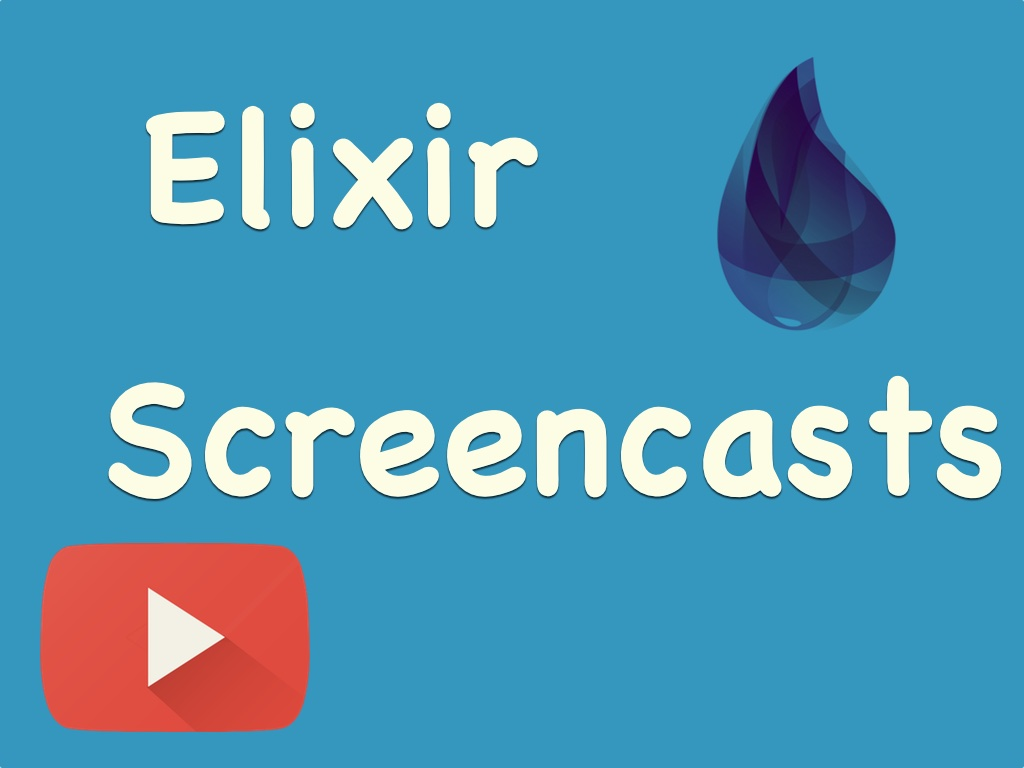
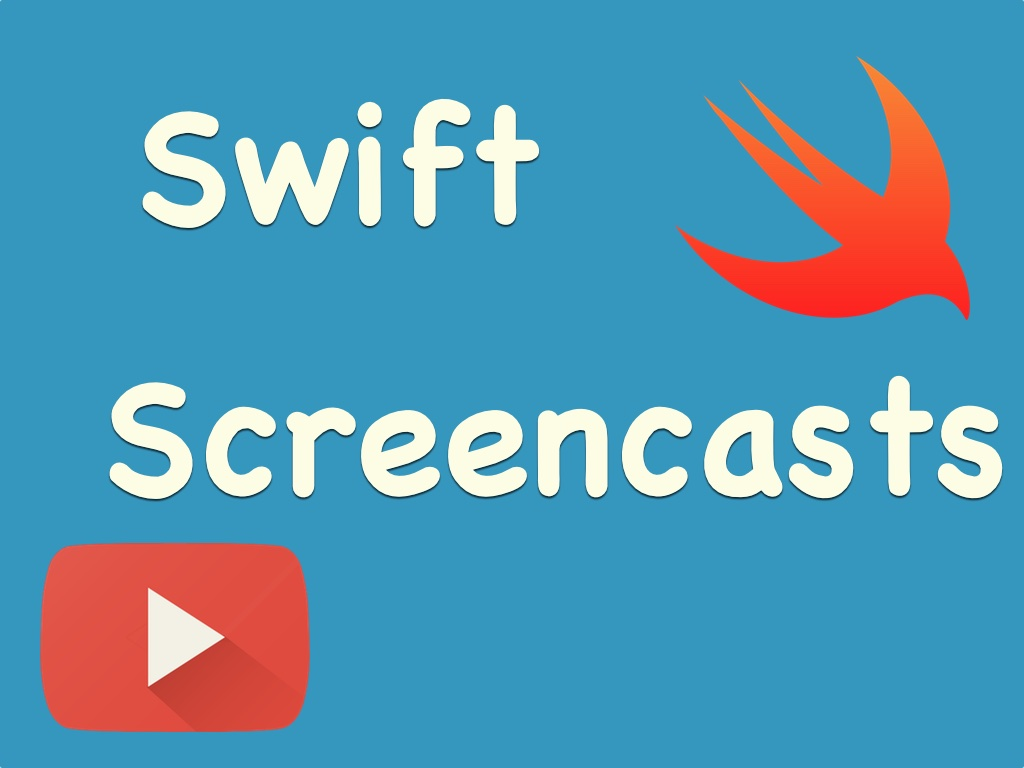
Added new assets

diff --git a/index.html b/index.html
@@ -1,14 +1,14 @@
 ---
 layout: default
-title: Inicio
+title: Aprende Swift y Elixir
 ---
 <div class="index-wrapper">
     
     <div class="jumbotron">
-        <h1>Aprende Elixir, Python, Linux, DevOps y Software Development</h1>
+        <h1>Aprende Swift y Elixir</h1>
 
         <p>Hola, mi nombre es Giovanni Cortés, y me gusta <strong>hacer videos y escribir sobre
-            Elixir, Python, Linux, DevOps y en general sobre programación</strong>. He sido desarrollador
+            Swift, Elixir, Python y en general sobre programación</strong>. He sido desarrollador
             por 5 años y me gusta <strong>ayudar a las personas a aprender sobre tecnología</strong>.
         </p>
     </div>
@@ -23,7 +23,7 @@ title: Inicio
         <div class="col-xs-4 video-box">
             <article>
                 <h3>
-                    <a href="">Linux Tips</a>
+                    <a href="">Tips</a>
                 </h3>
             </article>
         </div>
@@ -31,7 +31,7 @@ title: Inicio
         <div class="col-xs-4 video-box">
             <article>
                 <h3>
-                    <a href="">Python</a>
+                    <a href="">Swift</a>
                 </h3>
             </article>
         </div>
@@ -62,9 +62,9 @@ title: Inicio
     </div>
 
     <div class="email-cta-box">
-        <h3>Elixir y Software Development Tips</h3>
+        <h3>Swift y Elixir Development Tips</h3>
         <div class="email-cta-info">
-            Obtén cada semana un poco de información sobre Elixir y Desarrollo de Software. Prometo no enviar spam. Puedes cancelar tu suscripción en
+            Obtén cada semana un poco de información sobre Swift y Desarrollo de Software. Prometo no enviar spam. Puedes cancelar tu suscripción en
             cualquier momento.
         </div>
         {% include subscribe_general.html %}

diff --git a/acerca.html b/acerca.html
@@ -8,13 +8,12 @@ permalink: /acerca/
 
 <h2>Sobre mí</h2>
 
-<p>Mi nombre es Giovanni Cortes y ayudo a los que quieran aprender sobre Elixir, Python, Linux, DevOps y programación.</p>
+<p>Mi nombre es Giovanni Cortes y ayudo a los que quieran aprender sobre Swift, iOS, Linux, DevOps y programación.</p>
 
 <p>
   He sido desarrollador por más de 5 años escribiendo en lenguajes como
   Python, C#, Elixir, Swift y Objective-C. Actualmente me enfoco en crear
-  soluciones de DevOps con AWS principalmente. Aunque muchos prefieren usar
-  CentOS para sus servidores, generalmente uso Ubuntu Server para mis deploys.
+  soluciones de DevOps con AWS principalmente y crear aplicaciones de iOS usando Swift y Objective-C.
 </p>
 
 <p>

diff --git a/videos.html b/videos.html
@@ -4,14 +4,14 @@ title: Acerca
 permalink: /videos/
 ---
 
-<h1>Ve videos y screencasts gratis sobre Elixir y Tips de Programación en
+<h1>Ve videos y screencasts gratis sobre Swift y Tips de Programación en
 mi canal de YouTube
 </h1>
 
 <img src="/assets/img/screencasts.jpg" alt="Screencasts" class="img-responsive featured"></img>
 
 
-<p>Mi canal de YouTube tiene varios videos sobre Elixir, Python, Linux, y Tips de Programación que puedes disfrutar.</p>
+<p>Mi canal de YouTube tiene varios videos sobre Swift, Elixir, Python, y Tips de Programación que puedes disfrutar.</p>
 
 <p>Subo un video cada semana y trato de que sean pequeños y entendibles para que sean aprovechados de la mejor manera.
 </p>

diff --git a/_posts/2017-03-13-ambientes-virtuales-en-python-que-son-y-como-los-instalo.md b/_posts/2017-03-13-ambientes-virtuales-en-python-que-son-y-como-los-instalo.md
@@ -3,7 +3,7 @@ layout: post
 title:  "Ambientes virtuales en Python, ¿qué son y cómo los instalo?"
 date:   2017-03-13 18:15:32 -0600
 categories: python
-featured_image: "/assets/img/python/python-logo.jpg"
+featured_image: "/assets/img/python/python_post_02.jpg"
 featured_video:
 ---
 

diff --git a/_posts/2017-03-01-modelo-actor-concurrencia-en-elixir-2da-parte.md b/_posts/2017-03-01-modelo-actor-concurrencia-en-elixir-2da-parte.md
@@ -3,7 +3,7 @@ layout: post
 title:  "Modelo Actor Concurrencia en Elixir - 2da Parte"
 date:   2017-03-01 08:11:34 -0600
 categories: elixir
-featured_image: "/assets/img/elixir/elixir-logo.jpg"
+featured_image: "/assets/img/elixir/elixir_post_02.jpg"
 featured_video:
 ---
 

diff --git a/_posts/2017-03-06-modelo-actor-concurrencia-en-elixir-3ra-parte.md b/_posts/2017-03-06-modelo-actor-concurrencia-en-elixir-3ra-parte.md
@@ -3,7 +3,7 @@ layout: post
 title:  "Modelo Actor Concurrencia en Elixir - 3ra Parte"
 date:   2017-03-06 08:11:34 -0600
 categories: elixir
-featured_image: "/assets/img/elixir/elixir-logo.jpg"
+featured_image: "/assets/img/elixir/elixir_post_03.jpg"
 featured_video:
 ---
 

diff --git a/_posts/2017-02-27-modelo-actor-concurrencia-en-elixir-1ra-parte.md b/_posts/2017-02-27-modelo-actor-concurrencia-en-elixir-1ra-parte.md
@@ -3,7 +3,7 @@ layout: post
 title:  "Modelo Actor Concurrencia en Elixir - 1ra Parte"
 date:   2017-02-27 08:13:40 -0600
 categories: elixir
-featured_image: "/assets/img/elixir/actors.png"
+featured_image: "/assets/img/elixir/elixir_post_01.jpg"
 featured_video:
 ---
 

diff --git a/_posts/2017-03-08-authentication-api-con-phoenix-y-guardian.md b/_posts/2017-03-08-authentication-api-con-phoenix-y-guardian.md
@@ -3,7 +3,7 @@ layout: post
 title:  "Autenticación API con Phoenix y Guardian"
 date:   2017-03-08 09:31:34 -0600
 categories: elixir
-featured_image: "/assets/img/elixir/phoenix.png"
+featured_image: "/assets/img/elixir/phoenix_post_01.jpg"
 featured_video:
 ---
 

diff --git a/_posts/2017-02-16-instalar-python-2-y-python-3-en-macos.md b/_posts/2017-02-16-instalar-python-2-y-python-3-en-macos.md
@@ -3,7 +3,7 @@ layout: post
 title:  "Instalar Python 2 y Python 3 en macOS"
 date:   2017-02-16 08:46:55 -0600
 categories: python
-featured_image: "/assets/img/python/python-logo.jpg"
+featured_image: "/assets/img/python/python_post_01.jpg"
 featured_video:
 ---
 
